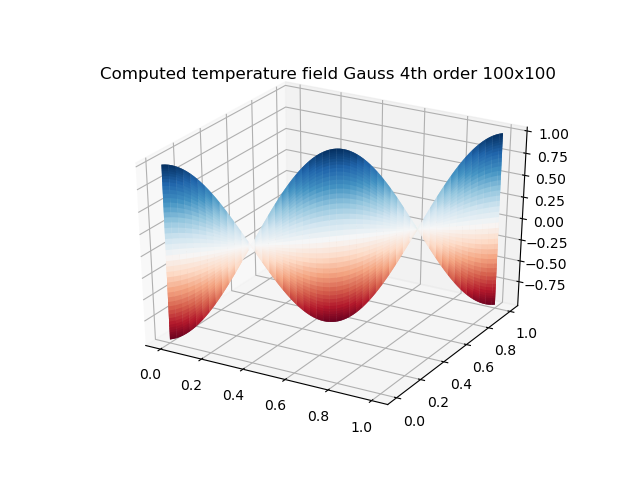
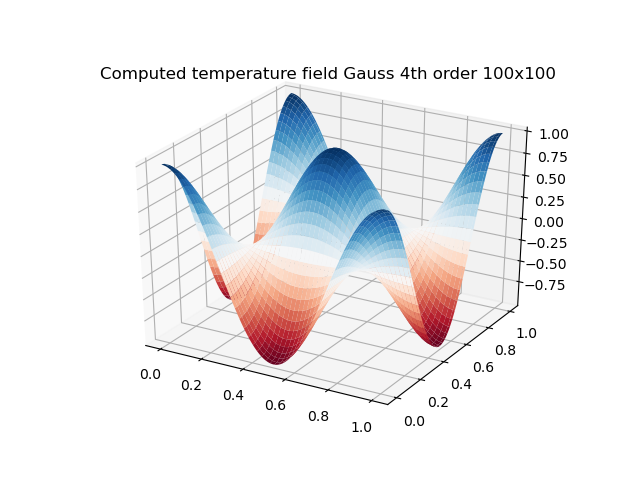
New plots

Changed region(s): [[0.25, 0.1875, 0.8125, 0.7812]]

diff --git a/proj02/src/h5py_surface_plotter.py b/proj02/src/h5py_surface_plotter.py
@@ -23,7 +23,7 @@ n = int(np.sqrt(nn))
 T_computed_matrix = np.zeros((n,n))
 T_exact_matrix = np.zeros((n,n))
 grid_vector = np.zeros(n)
-
+grid_matrix = np.zeros((n,n))
 for i in range(n):
 	grid_vector[i] = x_vector[i]
 	for j in range(n):
@@ -42,11 +42,11 @@ plt.savefig('hdf5_contourf_exact_plot.png')
 
 fig = plt.figure()
 ax = plt.axes(projection='3d')
-
-ax.plot_surface(grid_vector, grid_vector, T_computed_matrix, cmap='RdBu', edgecolor='none')
+grid_matrix = np.tile(grid_vector, (n,1))
+ax.plot_surface(grid_matrix, grid_matrix.transpose(), T_computed_matrix, cmap='RdBu', edgecolor='none')
 ax.set_title('Computed temperature field Gauss 4th order 100x100')
 plt.savefig('hdf5_surface_computed_plot.png')
 
-ax.plot_surface(grid_vector, grid_vector, T_exact_matrix, cmap='RdBu', edgecolor='none')
+ax.plot_surface(grid_matrix, grid_matrix.transpose(), T_exact_matrix, cmap='RdBu', edgecolor='none')
 ax.set_title('Exact temperature field 100x100')
 plt.savefig('hdf5_surface_exact_plot.png')
